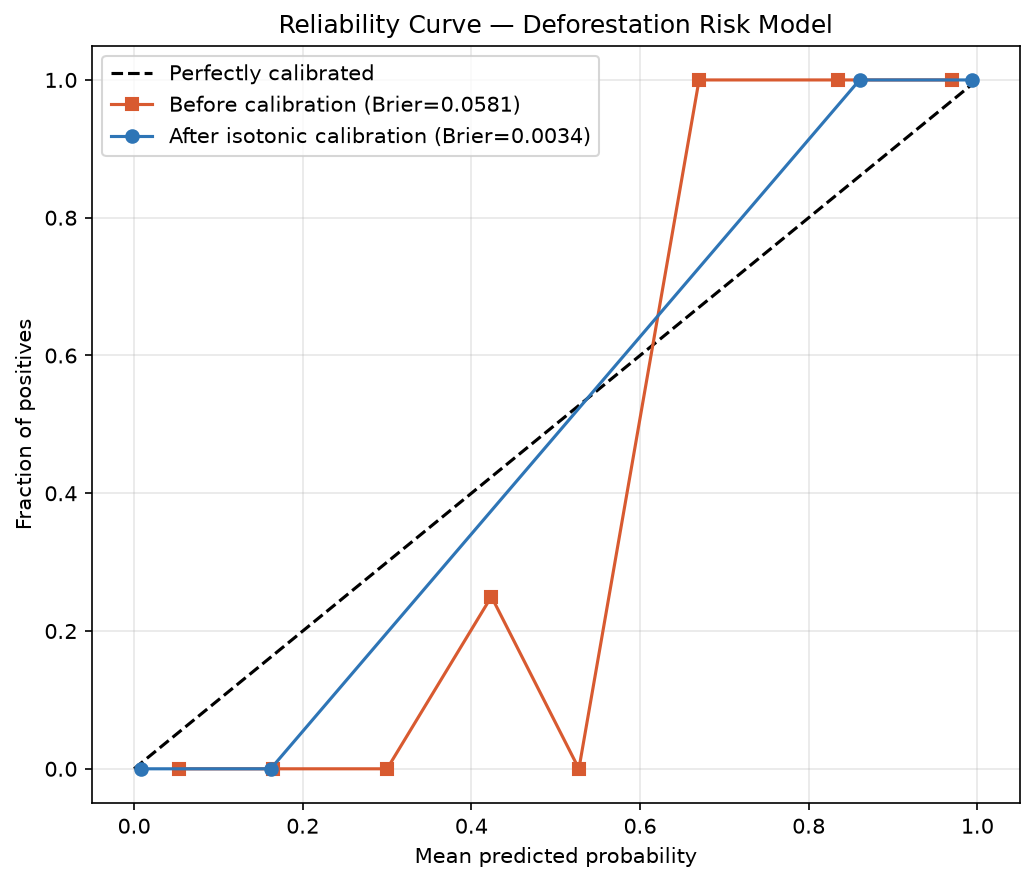
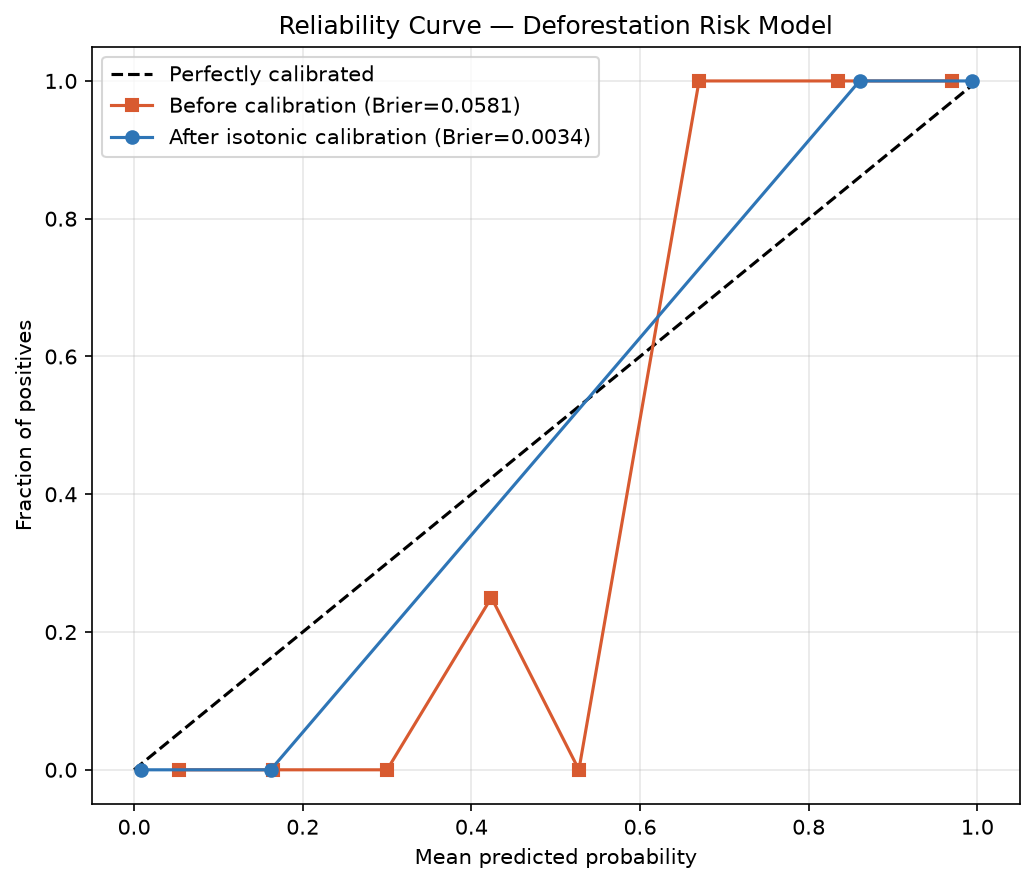
Week 11 complete: add save_to_s3 task, predictions to S3, fix mlflow, full pipeline passing all 6 tasks

diff --git a/outputs/drift_report.html b/outputs/drift_report.html
@@ -14,7 +14,7 @@
 </head>
 <body>
     <h1>Deforestation Risk Model — Drift Report</h1>
-    <p>Generated: 2026-07-17 16:00:18</p>
+    <p>Generated: 2026-07-23 11:41:02</p>
     <p>Built by Martin James Ng'ang'a | MLOps Engineer | github.com/M20Jay</p>
 
     <div class="summary">

diff --git a/scripts/sagemaker_train.py b/scripts/sagemaker_train.py
@@ -11,6 +11,7 @@ import joblib
 import numpy as np
 import pandas as pd
 import mlflow
+mlflow.set_tracking_uri("sqlite:////opt/airflow/project/mlflow.db")
 import mlflow.sklearn
 
 from sklearn.ensemble import RandomForestClassifier, GradientBoostingClassifier